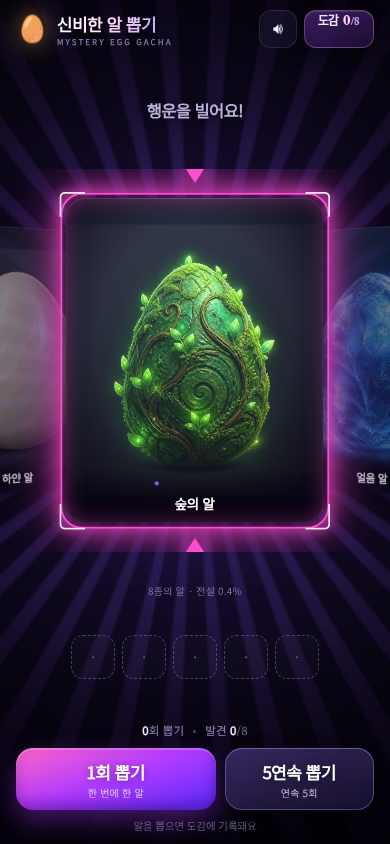
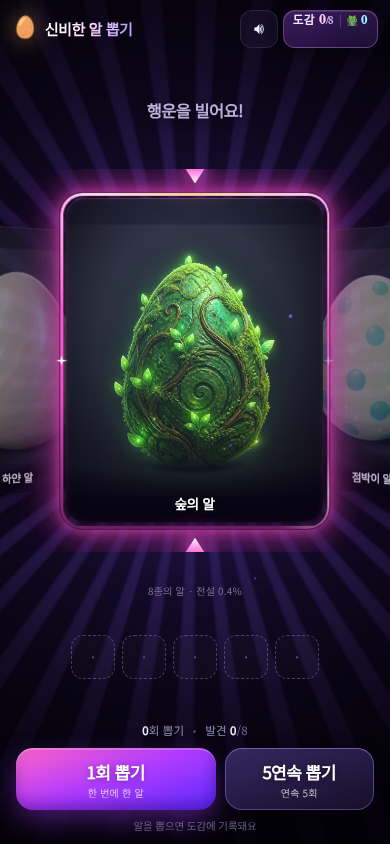
style: 룰렛 선택 프레임 업그레이드 — 흰 사각 코너 제거, 그라데이션 네온 림·홀로그램 글로스·별빛 플레어

diff --git a/src/style.css b/src/style.css
@@ -484,7 +484,28 @@ body {
 
 /* --------------------------------------------------------- center frame -- */
 
+/* The centre slot frame. The square white L-caps are gone for good: the rim is
+   a single masked gradient ring that shares the card's border-radius, so no
+   piece of it can sit off the curve. Layers, outside -> in:
+     1. .cf-glow  — neon bloom, pulsed with opacity only (compositor work)
+     2. ::before  — magenta<->gold conic rim + top-light overlay (masked ring)
+     3. ::after   — holographic glint orbiting the rim (masked ring, rotating)
+     4. .cf-spark — two starlight flares sitting on the rim's left/right edge
+   Everything animates through opacity or a registered-angle conic on the thin
+   rim: no layout work, no size change, nothing to keep in sync by hand. */
+
+@property --cf-spin {
+  syntax: '<angle>';
+  inherits: false;
+  initial-value: 0deg;
+}
+
 .center-frame {
+  --cf-line: 2.5px;
+  --cf-hot: color-mix(in srgb, var(--rar) 40%, #ffffff);
+  --cf-gold: #ffd08a;
+  --cf-deep: color-mix(in srgb, var(--rar) 45%, #300d48);
+
   position: absolute;
   left: 50%;
   top: 50%;
@@ -492,102 +513,200 @@ body {
   height: calc(var(--card-h) + 12px);
   transform: translate(-50%, -50%);
   border-radius: calc(var(--card-w) * 0.085);
-  border: 2px solid var(--rar);
-  box-shadow: 0 0 14px var(--rar-glow), 0 0 34px var(--rar-glow),
-    inset 0 0 16px color-mix(in srgb, var(--rar) 35%, transparent);
+  /* 1px dark seat outside the rim keeps the neon edge crisp against its glow */
+  outline: 1px solid rgba(9, 4, 15, 0.55);
+  outline-offset: 0;
   pointer-events: none;
   z-index: 320;
-  animation: framePulse 2.2s ease-in-out infinite;
+}
+
+/* 1 — bloom --------------------------------------------------------------- */
+
+.cf-glow {
+  position: absolute;
+  inset: 0;
+  border-radius: inherit;
+  /* behind the rim, so the gradient reads as a lit tube instead of being
+     washed out by its own bloom */
+  z-index: -1;
+  box-shadow: 0 0 13px var(--rar-glow), 0 0 32px var(--rar-glow),
+    0 0 62px color-mix(in srgb, var(--rar-glow) 55%, transparent),
+    inset 0 0 15px color-mix(in srgb, var(--rar) 30%, transparent);
+  animation: framePulse 2.6s ease-in-out infinite;
 }
 
 @keyframes framePulse {
   0%,
   100% {
-    box-shadow: 0 0 12px var(--rar-glow), 0 0 28px var(--rar-glow),
-      inset 0 0 14px color-mix(in srgb, var(--rar) 30%, transparent);
+    opacity: 0.62;
   }
   50% {
-    box-shadow: 0 0 20px var(--rar-glow), 0 0 52px var(--rar-glow),
-      inset 0 0 24px color-mix(in srgb, var(--rar) 45%, transparent);
+    opacity: 1;
   }
 }
 
-.roulette.spinning .center-frame {
-  animation: frameSpin 0.34s ease-in-out infinite;
+/* 2 — neon + gold rim ----------------------------------------------------- */
+
+.center-frame::before {
+  content: '';
+  position: absolute;
+  inset: 0;
+  padding: var(--cf-line);
+  border-radius: inherit;
+  background-image:
+    linear-gradient(
+      180deg,
+      rgba(255, 255, 255, 0.13) 0%,
+      rgba(255, 255, 255, 0.03) 22%,
+      rgba(0, 0, 0, 0) 50%,
+      rgba(0, 0, 0, 0.24) 100%
+    ),
+    conic-gradient(
+      from 0deg,
+      var(--cf-gold) 0deg,
+      var(--cf-hot) 34deg,
+      var(--rar) 74deg,
+      var(--rar) 108deg,
+      var(--cf-deep) 148deg,
+      var(--cf-deep) 212deg,
+      var(--rar) 252deg,
+      var(--rar) 292deg,
+      var(--cf-hot) 326deg,
+      var(--cf-gold) 360deg
+    );
+  -webkit-mask: linear-gradient(#000 0 0) content-box, linear-gradient(#000 0 0);
+  -webkit-mask-composite: xor;
+  mask: linear-gradient(#000 0 0) content-box, linear-gradient(#000 0 0);
+  mask-composite: exclude;
 }
 
-@keyframes frameSpin {
+/* 3 — holographic glint orbiting the rim ---------------------------------- */
+
+.center-frame::after {
+  content: '';
+  position: absolute;
+  inset: 0;
+  padding: var(--cf-line);
+  border-radius: inherit;
+  background: conic-gradient(
+    from var(--cf-spin),
+    rgba(255, 240, 214, 0) 0deg,
+    rgba(255, 242, 220, 0.55) 10deg,
+    rgba(255, 240, 214, 0) 28deg,
+    rgba(255, 240, 214, 0) 196deg,
+    rgba(255, 242, 220, 0.28) 206deg,
+    rgba(255, 240, 214, 0) 220deg,
+    rgba(255, 244, 226, 0) 360deg
+  );
+  -webkit-mask: linear-gradient(#000 0 0) content-box, linear-gradient(#000 0 0);
+  -webkit-mask-composite: xor;
+  mask: linear-gradient(#000 0 0) content-box, linear-gradient(#000 0 0);
+  mask-composite: exclude;
+  mix-blend-mode: screen;
+  animation: cfOrbit 5.2s linear infinite;
+}
+
+@keyframes cfOrbit {
+  to {
+    --cf-spin: 360deg;
+  }
+}
+
+/* 4 — starlight flares on the rim ----------------------------------------- */
+
+.cf-spark {
+  position: absolute;
+  top: 50%;
+  width: 13px;
+  height: 13px;
+  margin-top: -6.5px;
+  background: radial-gradient(
+    circle at 50% 50%,
+    #ffffff 0%,
+    #ffffff 30%,
+    var(--cf-hot) 46%,
+    rgba(255, 255, 255, 0) 70%
+  );
+  clip-path: polygon(50% 0%, 58% 42%, 100% 50%, 58% 58%, 50% 100%, 42% 58%, 0% 50%, 42% 42%);
+  filter: drop-shadow(0 0 4px var(--rar)) drop-shadow(0 0 8px var(--rar-glow));
+  animation: cfTwinkle 3.6s ease-in-out infinite;
+}
+
+.cf-spark-l {
+  left: calc(var(--cf-line) / 2 - 6.5px);
+}
+
+.cf-spark-r {
+  right: calc(var(--cf-line) / 2 - 6.5px);
+  animation-delay: -1.8s;
+}
+
+@keyframes cfTwinkle {
   0%,
   100% {
-    box-shadow: 0 0 14px var(--rar-glow), 0 0 30px var(--rar-glow);
+    opacity: 0.3;
   }
   50% {
-    box-shadow: 0 0 26px var(--rar-glow), 0 0 66px var(--rar-glow);
+    opacity: 1;
   }
 }
 
-.center-frame .corner {
-  position: absolute;
-  width: calc(var(--card-w) * 0.1);
-  height: calc(var(--card-w) * 0.1);
-  border: 2.5px solid #ffffff;
-  opacity: 0.9;
-  filter: drop-shadow(0 0 5px var(--rar));
+.roulette.spinning .cf-glow {
+  animation-duration: 0.5s;
 }
 
-.center-frame .tl {
-  left: -3px;
-  top: -3px;
-  border-right: 0;
-  border-bottom: 0;
-  border-radius: 6px 0 0 0;
-}
-.center-frame .tr {
-  right: -3px;
-  top: -3px;
-  border-left: 0;
-  border-bottom: 0;
-  border-radius: 0 6px 0 0;
-}
-.center-frame .bl {
-  left: -3px;
-  bottom: -3px;
-  border-right: 0;
-  border-top: 0;
-  border-radius: 0 0 0 6px;
-}
-.center-frame .br {
-  right: -3px;
-  bottom: -3px;
-  border-left: 0;
-  border-top: 0;
-  border-radius: 0 0 6px 0;
+.roulette.spinning .center-frame::after {
+  animation-duration: 1.1s;
 }
 
 /* ------------------------------------------------------------- markers -- */
 
+/* Lit pointer wedges above/below the slot. Drawn as clipped boxes rather than
+   border triangles so each one can carry a gradient into a white-hot tip and
+   still keep its glow (the filter lives on the wrapper, the shape on ::before). */
+
 .marker {
   position: absolute;
   left: 50%;
-  width: 0;
-  height: 0;
+  width: 22px;
+  height: 17px;
   z-index: 330;
   transform: translateX(-50%);
   filter: drop-shadow(0 0 9px var(--rar)) drop-shadow(0 0 18px var(--rar-glow));
 }
 
+.marker::before {
+  content: '';
+  position: absolute;
+  inset: 0;
+  clip-path: polygon(0% 0%, 100% 0%, 50% 100%);
+}
+
 .marker-top {
   top: calc(50% - var(--card-h) / 2 - 32px);
-  border-left: 11px solid transparent;
-  border-right: 11px solid transparent;
-  border-top: 17px solid var(--rar);
+}
+
+.marker-top::before {
+  background: linear-gradient(
+    180deg,
+    var(--rar) 0%,
+    color-mix(in srgb, var(--rar) 46%, #ffffff) 58%,
+    #ffffff 100%
+  );
 }
 
 .marker-bottom {
   top: calc(50% + var(--card-h) / 2 + 15px);
-  border-left: 11px solid transparent;
-  border-right: 11px solid transparent;
-  border-bottom: 17px solid var(--rar);
+}
+
+.marker-bottom::before {
+  clip-path: polygon(0% 100%, 100% 100%, 50% 0%);
+  background: linear-gradient(
+    0deg,
+    var(--rar) 0%,
+    color-mix(in srgb, var(--rar) 46%, #ffffff) 58%,
+    #ffffff 100%
+  );
 }
 
 /* ------------------------------------------------------------- results -- */
@@ -1113,8 +1232,19 @@ body {
 
 @media (prefers-reduced-motion: reduce) {
   .brand-mark,
-  .btn-primary::after {
+  .btn-primary::after,
+  .cf-glow,
+  .center-frame::after,
+  .cf-spark {
     animation: none;
+  }
+
+  .cf-glow {
+    opacity: 1;
+  }
+
+  .cf-spark {
+    opacity: 0.85;
   }
 }
 

diff --git a/index.html b/index.html
@@ -56,8 +56,8 @@
         <div class="roulette" id="roulette">
           <div class="track" id="track"></div>
           <div class="center-frame" id="centerFrame" aria-hidden="true">
-            <span class="corner tl"></span><span class="corner tr"></span>
-            <span class="corner bl"></span><span class="corner br"></span>
+            <span class="cf-glow"></span>
+            <span class="cf-spark cf-spark-l"></span><span class="cf-spark cf-spark-r"></span>
           </div>
           <div class="marker marker-top" aria-hidden="true"></div>
           <div class="marker marker-bottom" aria-hidden="true"></div>
